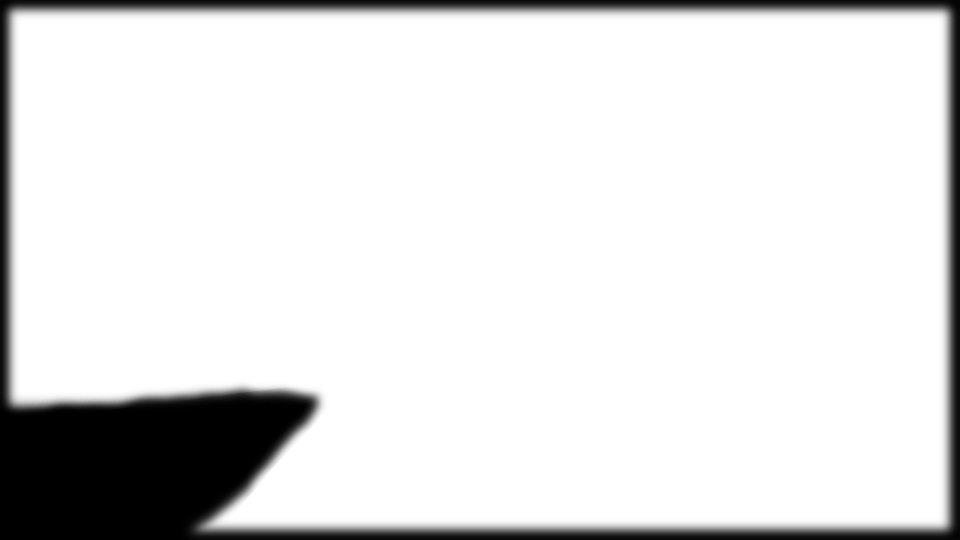
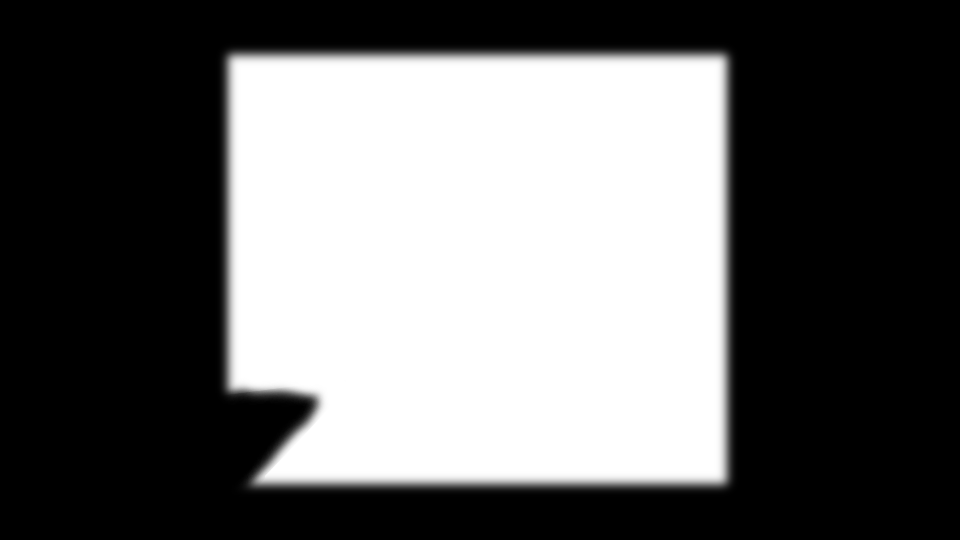
new masks added

diff --git a/scripts/scriptWeb.js b/scripts/scriptWeb.js
@@ -395,10 +395,10 @@ function clickTrigger(){
 				BottleRoomVideoPlayScene.add(VideoPlayBottleScene)
 				videoDivBottleScene.play();
 				
-				VideoPlayBottleScene.position.set(-340,25,-450);
+				VideoPlayBottleScene.position.set(-342,25,-450);
 			
 				VideoPlayBottleScene.rotation.set(0,4.7,0)
-				VideoPlayBottleScene.scale.set(3,3.5,1)
+				VideoPlayBottleScene.scale.set(7.2,7.5,1)
 				// BottleRoomVideoPlayScene.add(VideoPlayBottleScene)
 				MainRoomArrow.position.set(arrowDist * Math.sin(toRadians(-45)) , arrowHeight, -arrowDist * Math.cos(toRadians(-45)));
 				ProductRoomArrow.position.set(arrowDist * Math.sin(toRadians(-15)) , arrowHeight, -arrowDist * Math.cos(toRadians(-15)));
@@ -427,7 +427,13 @@ function clickTrigger(){
 				BottleRoomScene.add(BottleRoomArrow)
 				CoachRoomScene.add(CoachRoomArrow)
 				MainRoomScene.add(MainRoomArrow);
-
+				BottleRoomVideoPlayScene.add(VideoPlayBottleScene)
+				videoDivBottleScene.play();
+				
+				VideoPlayBottleScene.position.set(-245,20,-450);
+			
+				VideoPlayBottleScene.rotation.set(0,4.7,0)
+				VideoPlayBottleScene.scale.set(9,10,1)
 				videoRoomArrow.position.set(arrowDist * Math.sin(toRadians(-20)) , arrowHeight, -arrowDist *1.5* Math.cos(toRadians(-20)));
 				BottleRoomArrow.position.set(arrowDist * Math.sin(toRadians(30)) , arrowHeight, -arrowDist *1.5* Math.cos(toRadians(30)));
 				CoachRoomArrow.position.set(arrowDist * Math.sin(toRadians(100)) , arrowHeight, -arrowDist * Math.cos(toRadians(100)));
